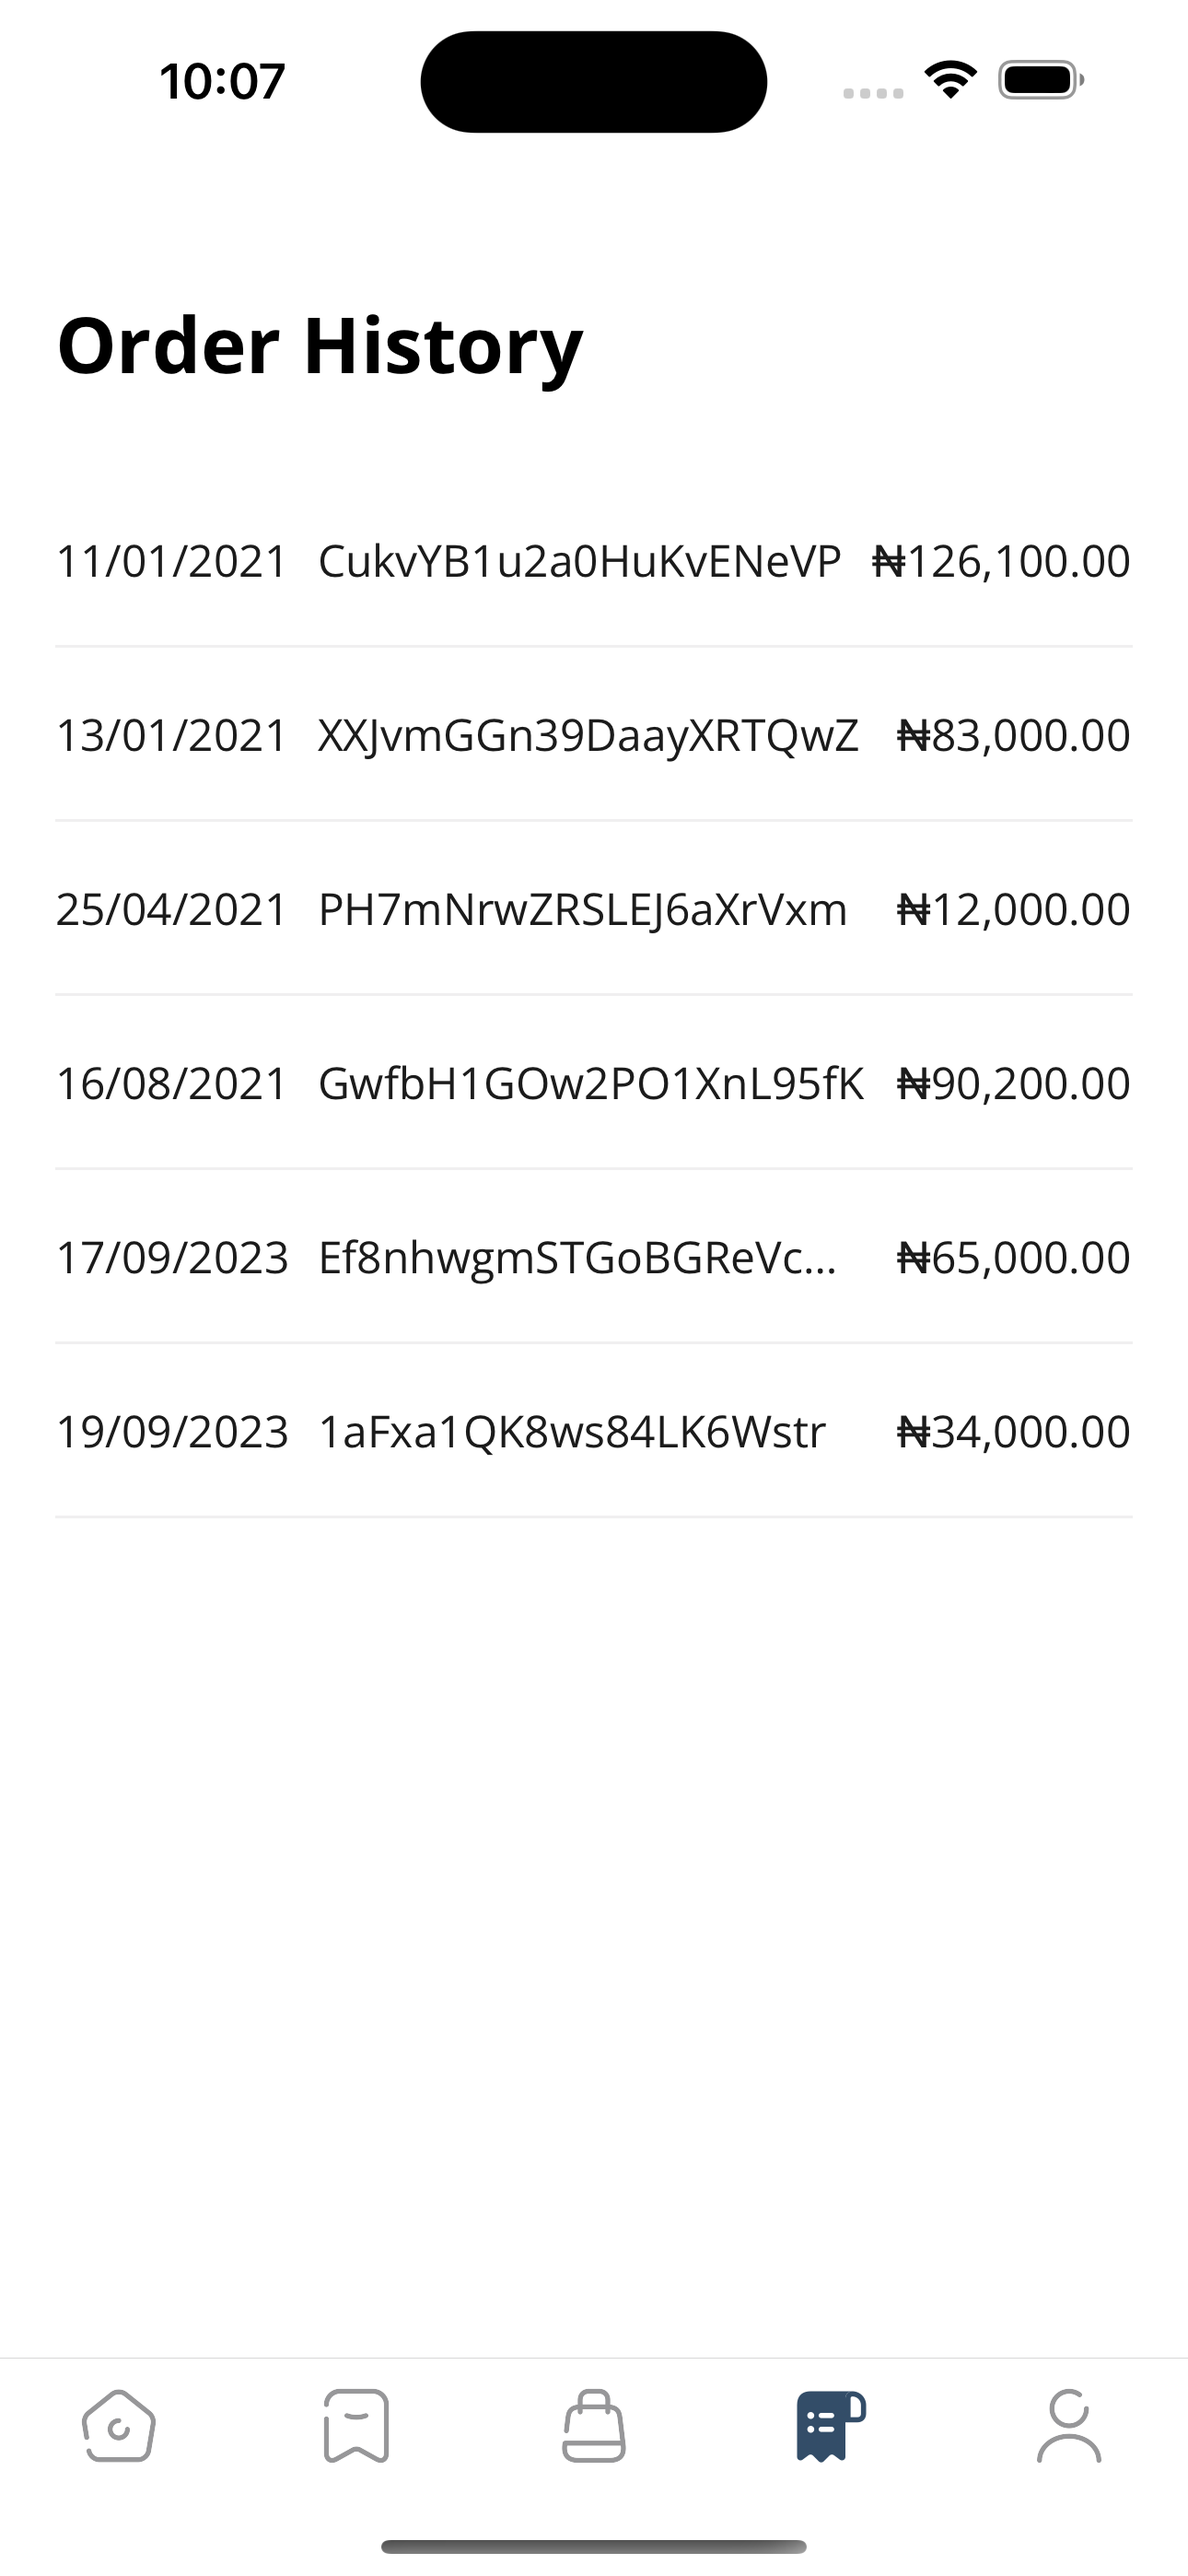
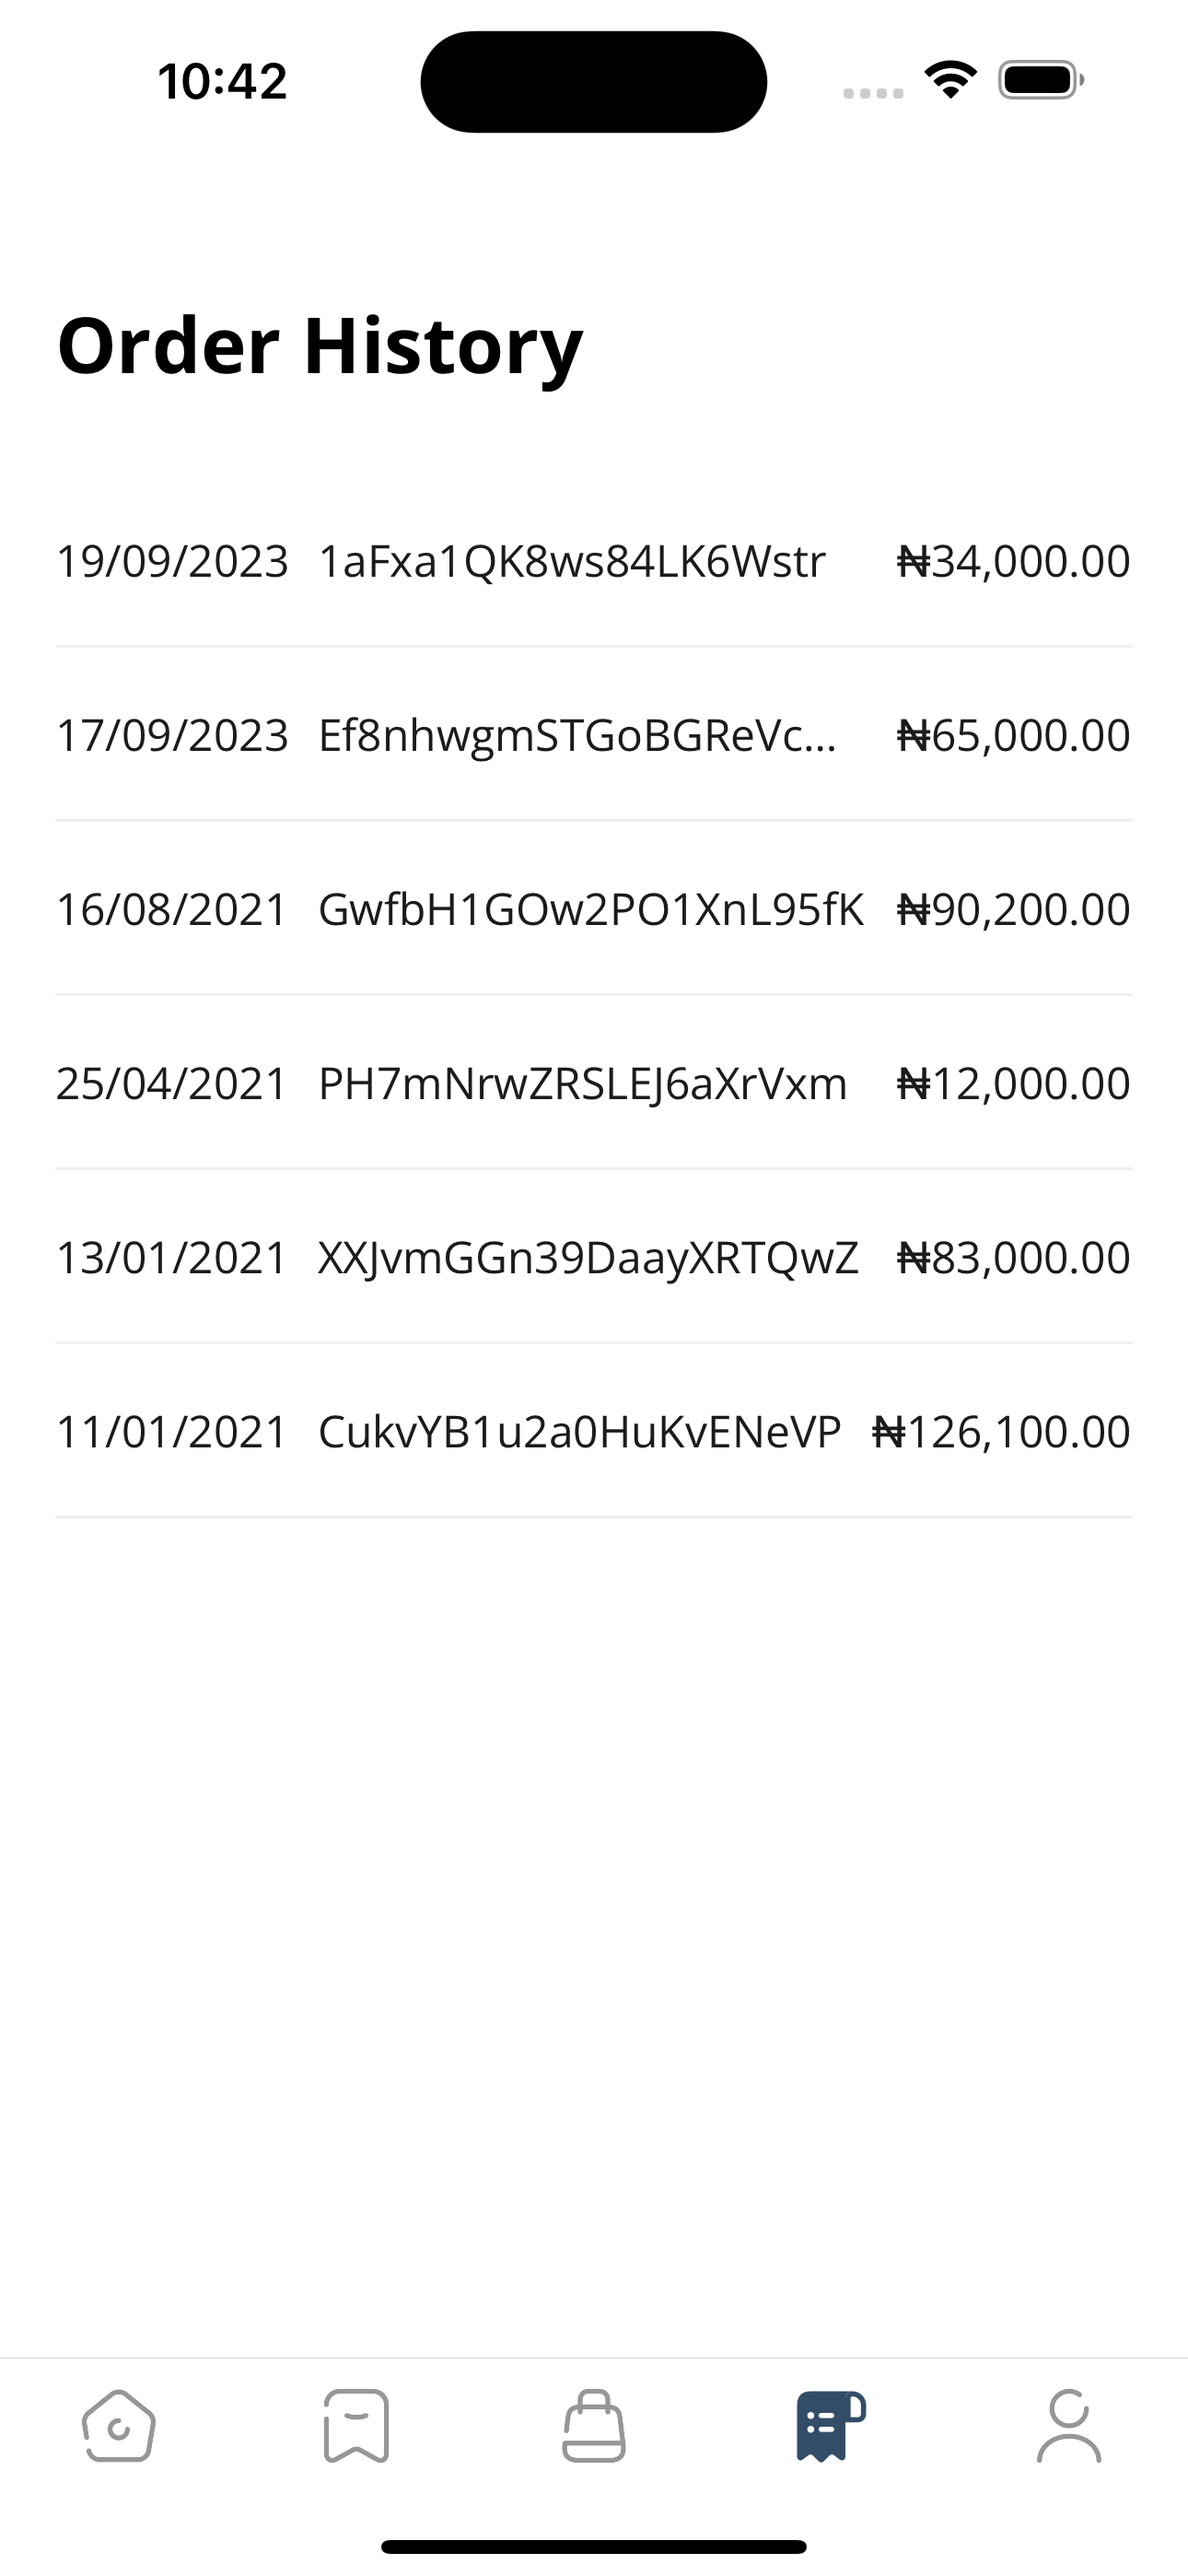
fix: sorted order history by most recent

diff --git a/src/hooks/useFetchUserOrders.tsx b/src/hooks/useFetchUserOrders.tsx
@@ -13,7 +13,7 @@ export default function useFetchUserOrders(onDone?: () => void) {
 		const q = query(
 			collection(db, "orders"),
 			where("orderUserID", "==", user?.uid),
-			orderBy("orderCreatedDate")
+			orderBy("orderCreatedDate", "desc")
 		);
 		const querySnapshot = await getDocs(q);
 		const orders: OrderType[] = [];
@@ -33,5 +33,11 @@ export default function useFetchUserOrders(onDone?: () => void) {
 		onSettled: () => {
 			onDone?.();
 		},
+		// select: (data) => {
+		// 	const sortedData = [...data].sort((a, b) =>
+		// 		b.orderCreatedDate > a.orderCreatedDate ? -1 : 1
+		// 	);
+		// 	return sortedData;
+		// },
 	});
 }
